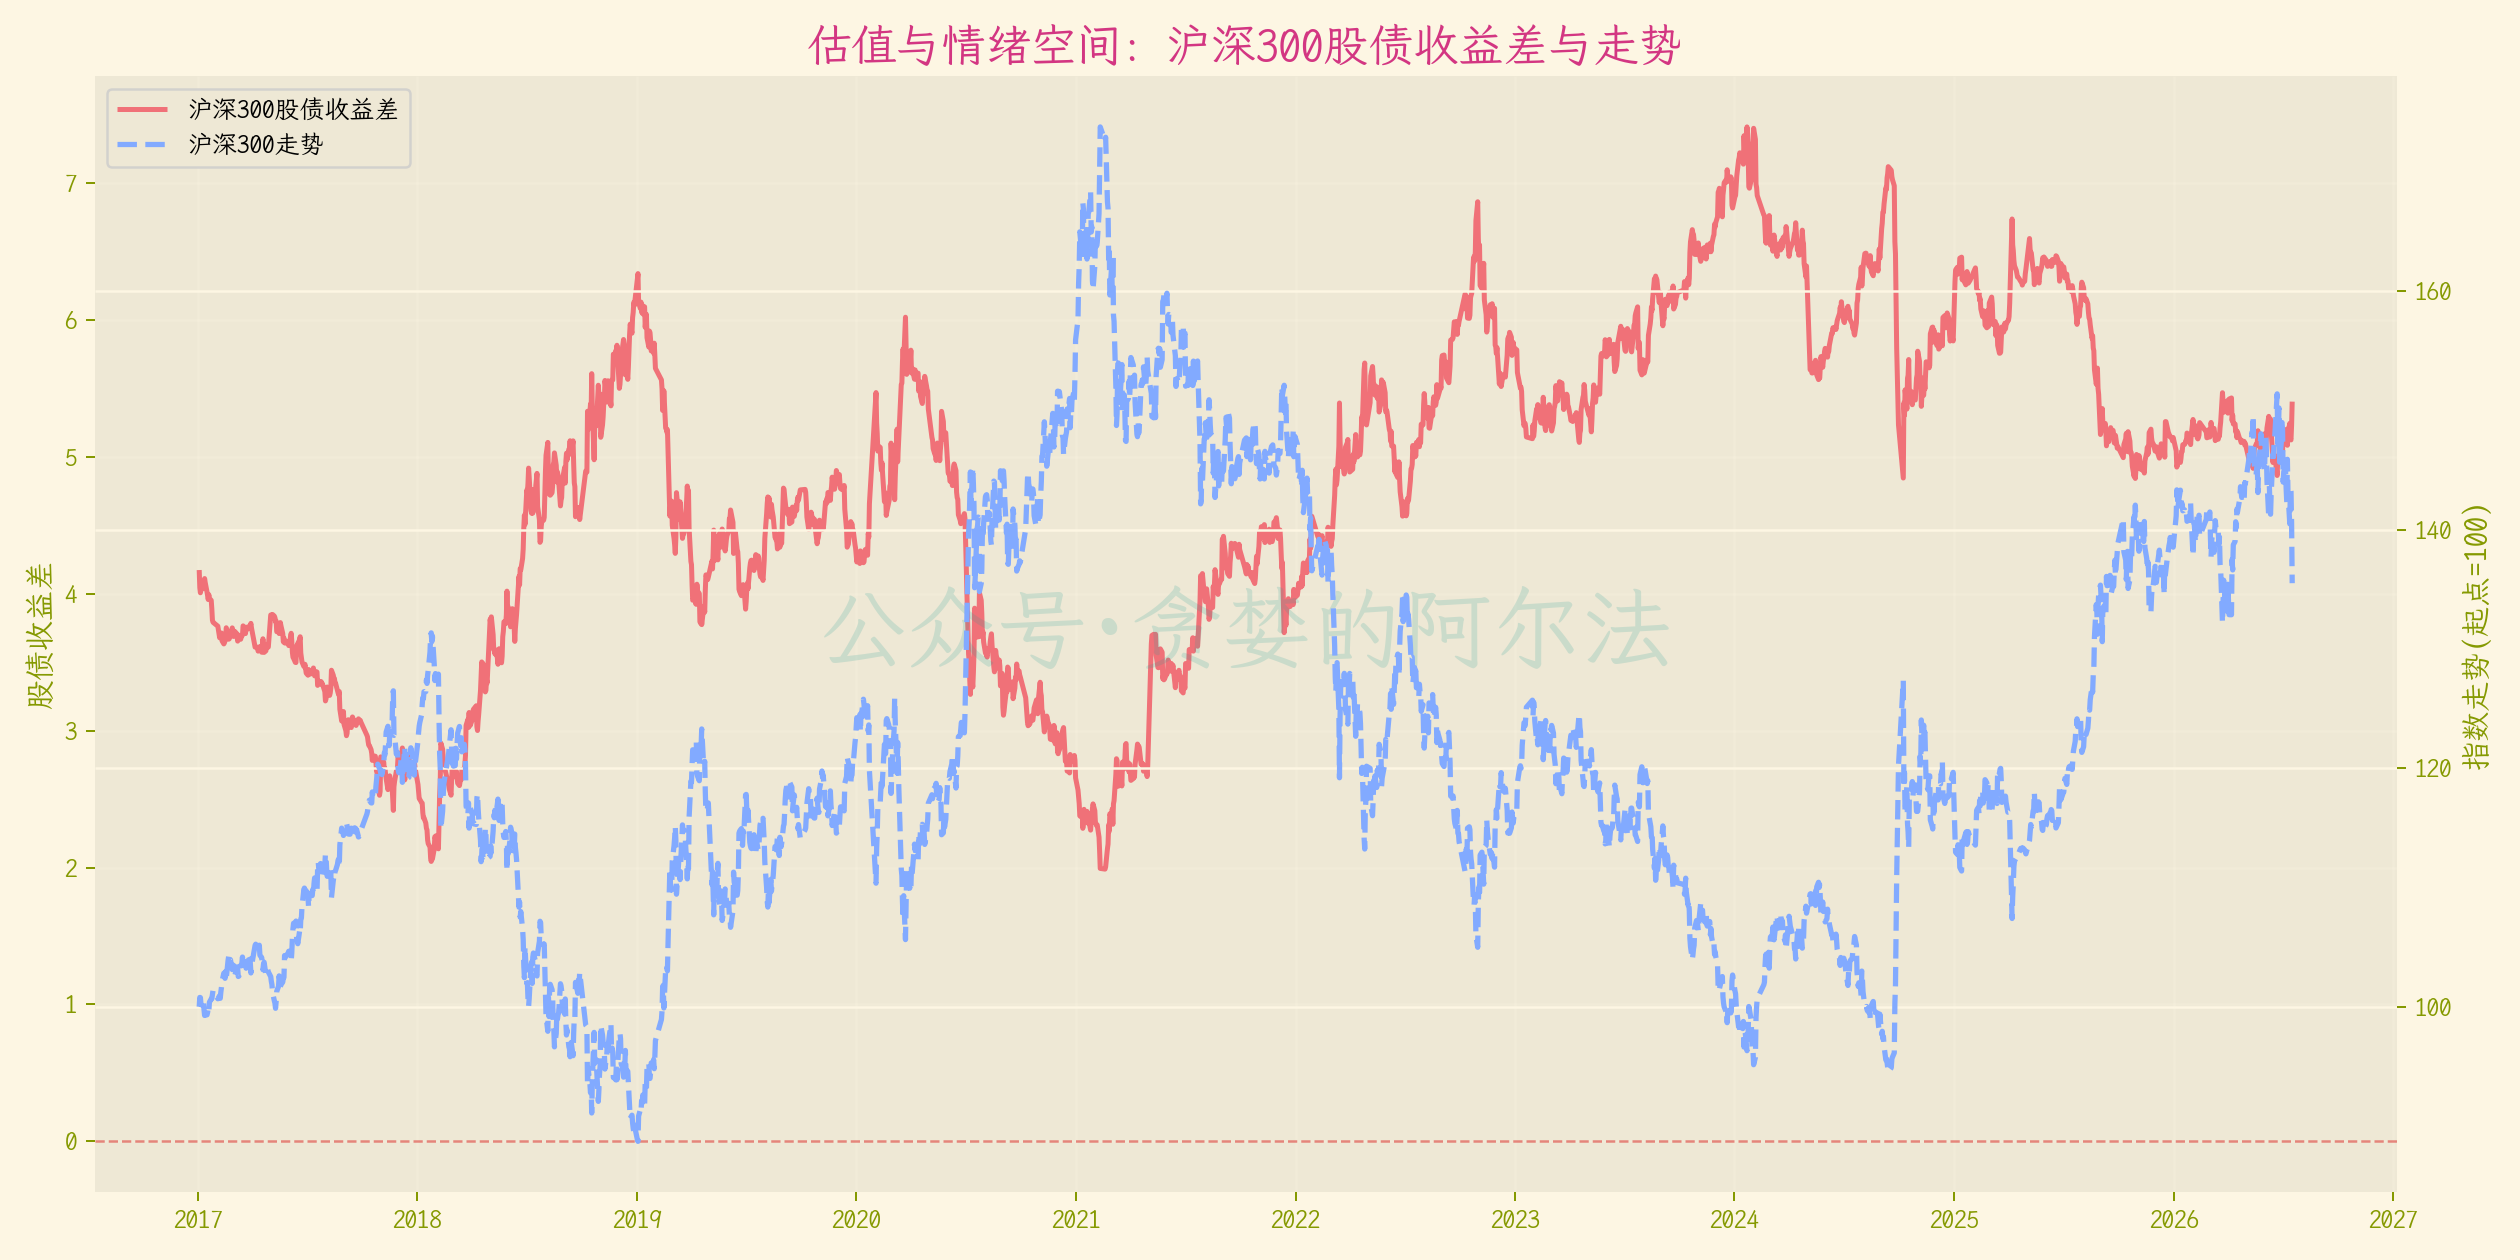
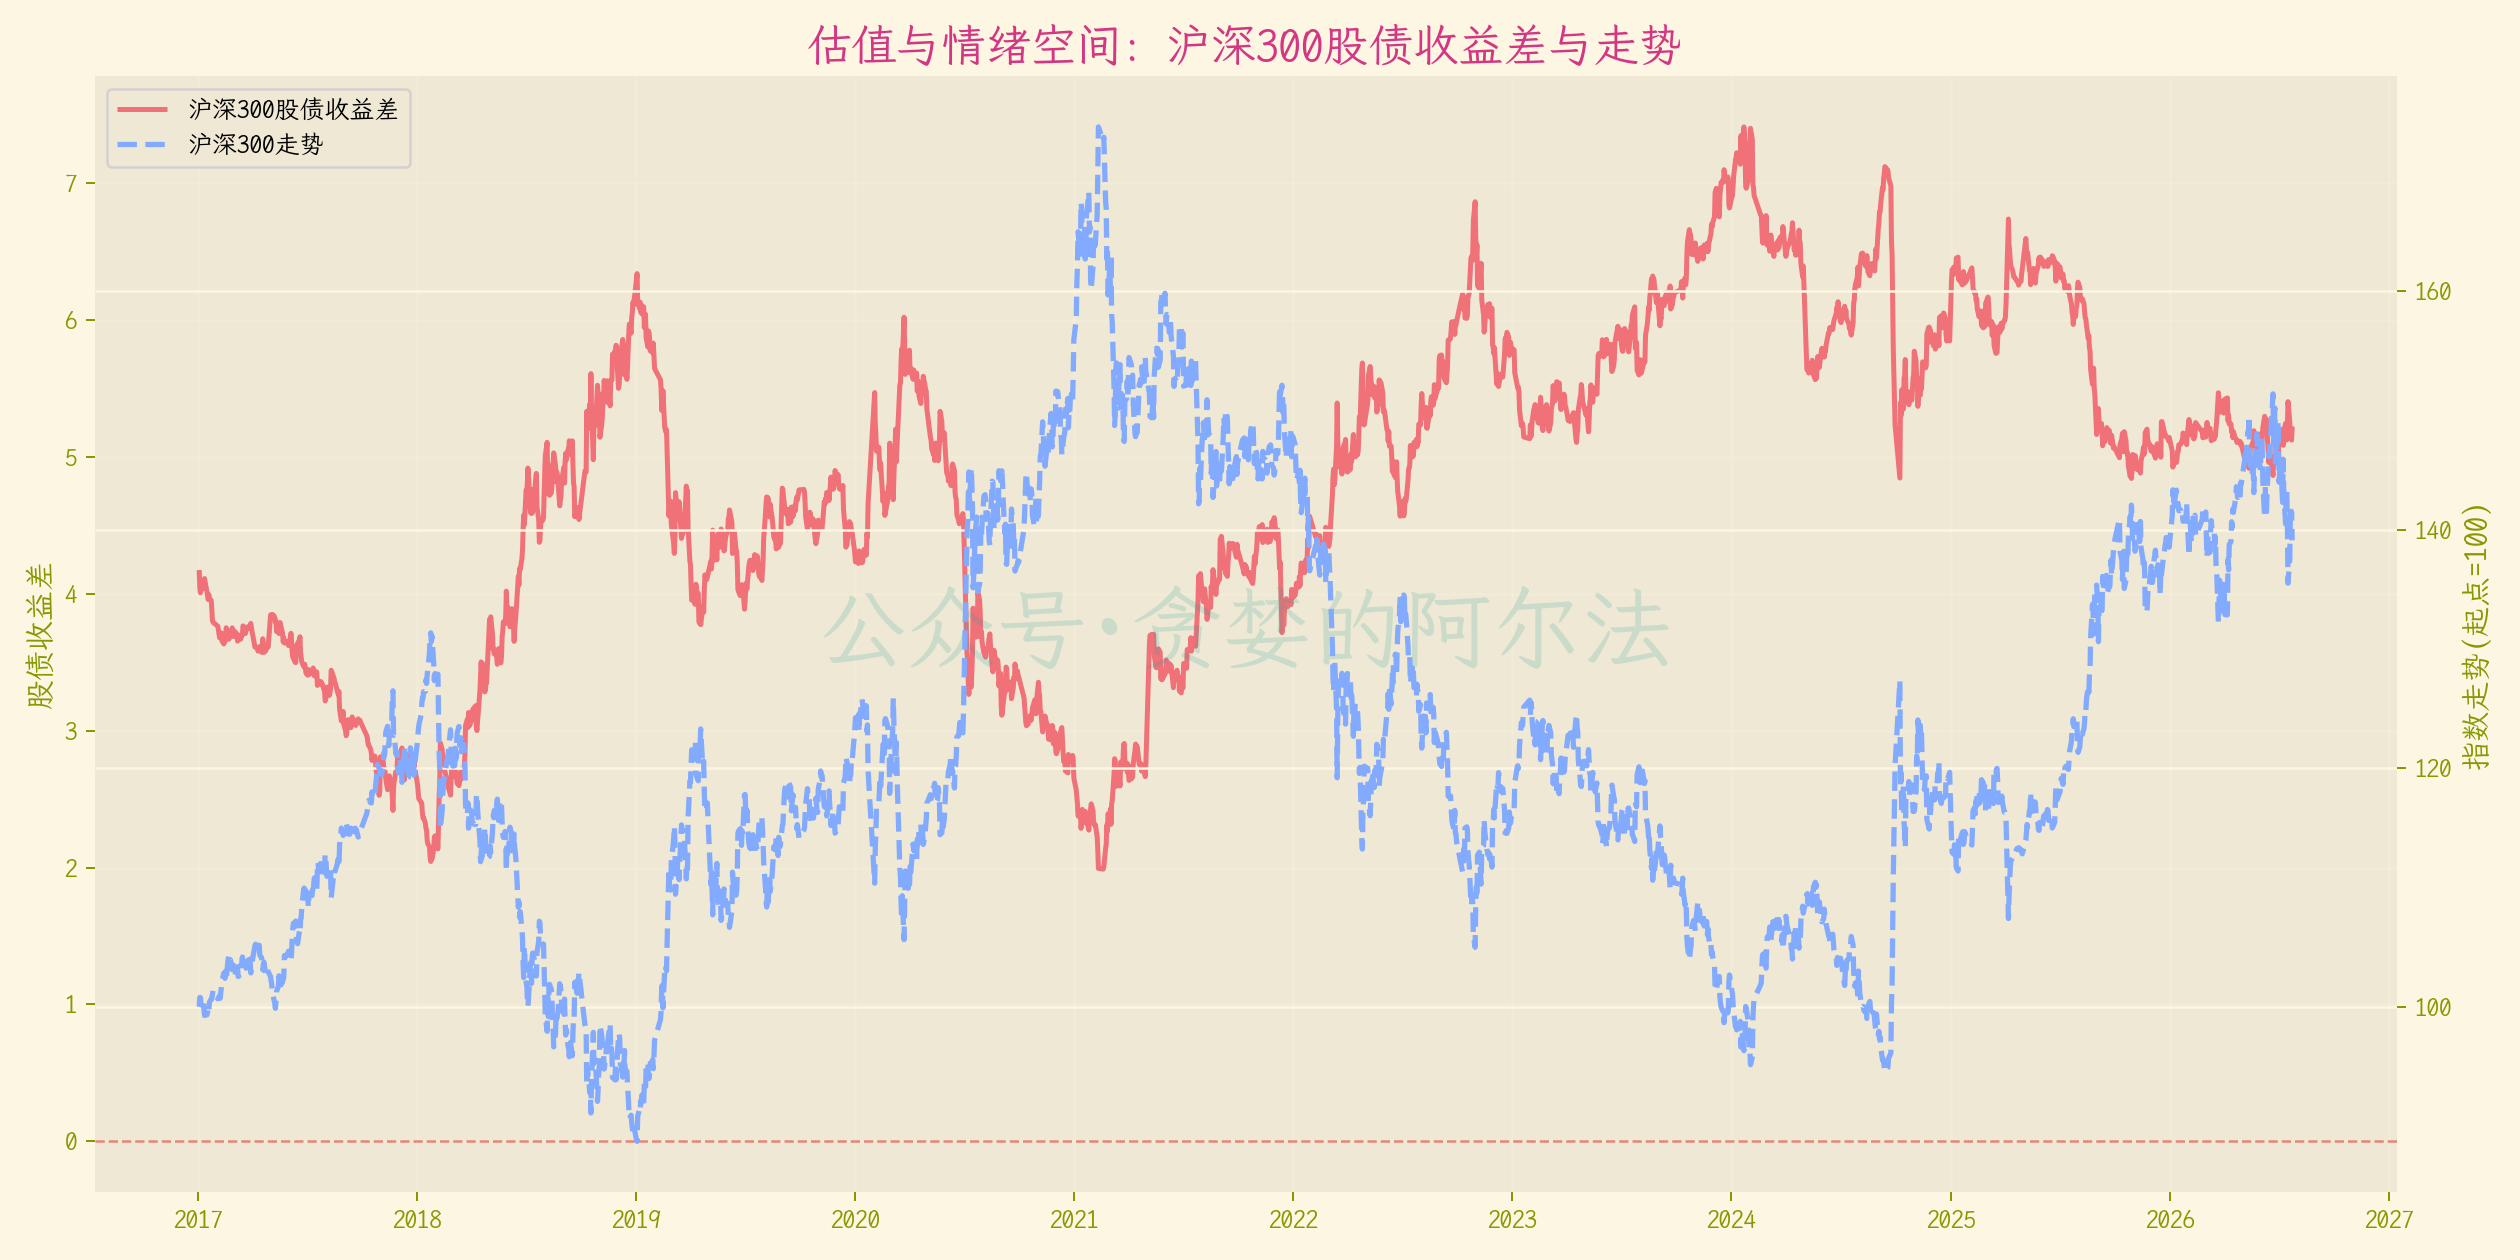
sync: 20260725

diff --git a/docs/bull_market/bull_market_score.md b/docs/bull_market/bull_market_score.md
@@ -1,13 +1,13 @@
 # 牛市概率评分
 
-当前总分：**68.8/100**
+当前总分：**67.8/100**
 
 状态判断：**牛市线索存在，但仍需宽度确认**
 
 | 模块 | 权重 | 得分 | 核心证据 |
 |---|---:|---:|---|
-| 全球 AI 重估 | 20 | 20.0 | 2023年以来截至2026-07-18，AI受益市场平均涨幅约 148.4%，中证500约 26.2%。 |
+| 全球 AI 重估 | 20 | 20.0 | 2023年以来截至2026-07-25，AI受益市场平均涨幅约 148.2%，中证500约 26.5%。 |
 | 国内宏观修复 | 20 | 15.0 | 2026-06-01 CPI 1.0%，PPI 4.1%，PMI 50.3，M1-M2 -3.1pct。 |
-| 流动性活化 | 20 | 11.8 | 2026-07-16 近20日融资买入额/成交金额约 18.71%，疫情前均值 17.93%。 |
-| 市场宽度扩散 | 20 | 6.7 | 2026-07-17 中证800 MA20宽度约 39%，60日创新高 2 只。 |
-| 估值与情绪空间 | 20 | 15.3 | 2026-07-17 10年国债 1.74%，沪深300股债收益差 5.40，中证500 2.00。 |
+| 流动性活化 | 20 | 10.2 | 2026-07-23 近20日融资买入额/成交金额约 17.42%，疫情前均值 17.93%。 |
+| 市场宽度扩散 | 20 | 7.5 | 2026-07-24 中证800 MA20宽度约 46%，60日创新高 2 只。 |
+| 估值与情绪空间 | 20 | 15.1 | 2026-07-24 10年国债 1.73%，沪深300股债收益差 5.22，中证500 2.00。 |
